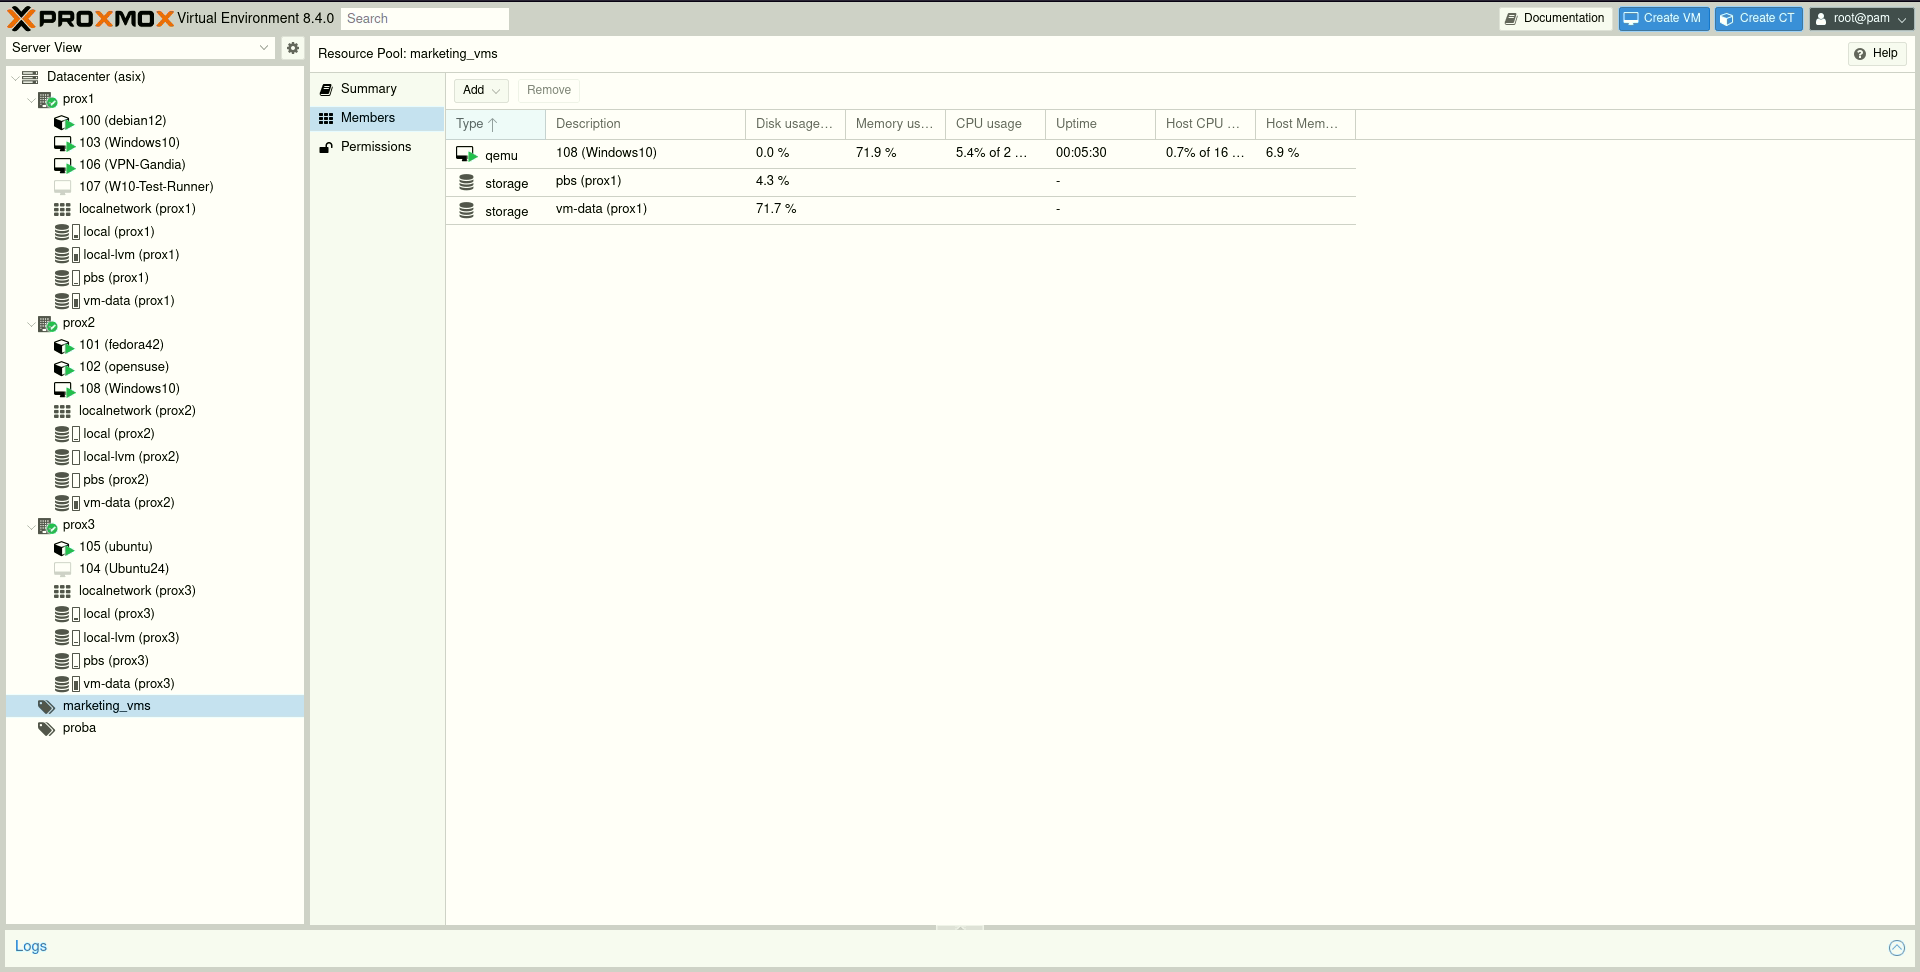
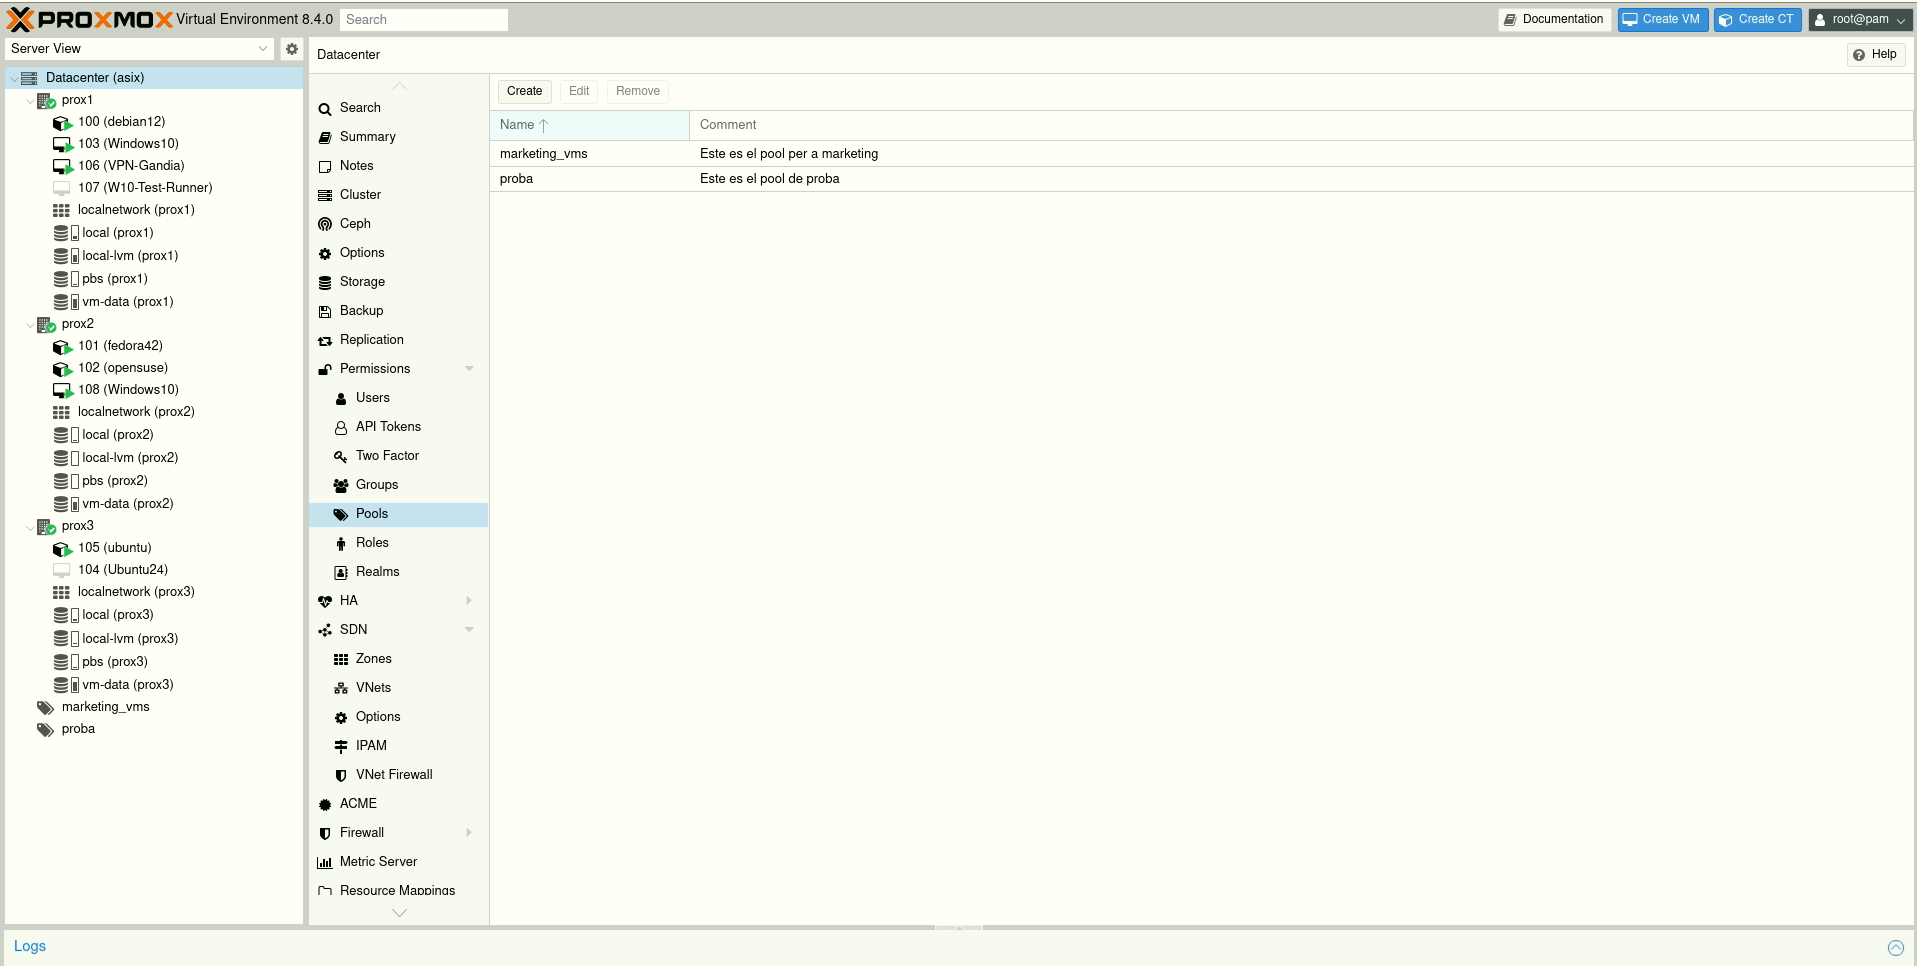
update files

diff --git a/documentació/configuració/proxmox/README.md b/documentació/configuració/proxmox/README.md
@@ -392,9 +392,6 @@ Ceph replica les dades entre OSDs segons la configuració de rèpliques (per def
 ![Restauració](../../../img/image-82.png)
 
 ---
-Perfecte! A continuació et redacte el punt **4.5 Gestió i monitoratge de Ceph**, amb to tècnic, formal i en valencià, adaptat per al teu projecte de forma clara i estructurada:
-
----
 
 ### 📈 4.5 Gestió i Monitoratge de **Ceph**
 
@@ -541,11 +538,11 @@ Per assegurar el correcte funcionament de la configuració HA, és recomanable f
 3. Observa com la VM és **migrada automàticament** a un altre node disponible
 4. Verifica que el servei continua operatiu sense intervenció manual
 
-![alt text](../../../img/image-88.png)
+![alt text](../../../img/image-89.png)
 
 🔍 Es pot monitorar aquest procés des de `Datacenter → HA → Status`.
 
-![alt text](../../../img/image-89.png)
+![alt text](../../../img/image-90.png)
 
 Per descomptat! Ací tens el fragment redactat de manera formal i clara, ideal per afegir com a continuació dins del punt 5.4 o com un subapartat pràctic de **recuperació post-fallada**:
 
@@ -607,7 +604,7 @@ Un cop el node original torna a estar **en línia i estable**, és **recomanable
 
 Amb aquest procés, la màquina recupera la seua ubicació inicial, mantenint-se dins del grup HA i **preparada per a futures gestions automàtiques** de tolerància a fallades.
 
-![alt text](../../../img/image-90.png)
+![alt text](../../../img/image-91.png)
 
 ---
 
@@ -637,10 +634,9 @@ En entorns virtualitzats compartits, com un clúster de **Proxmox VE**, és fona
    * `VM.Console`
    * `Sys.Console`
 
-![alt text](../../../img/image-91.png)
+![alt text](../../../img/image-92.png)
 
-
-![alt text](../../../img/image-98.png)
+![alt text](../../../img/image-93.png)
 
 #### ➕ Assignació del rol:
 
@@ -653,13 +649,13 @@ En entorns virtualitzats compartits, com un clúster de **Proxmox VE**, és fona
 
 Això permet donar accés restringit a determinats recursos dins del clúster.
 
-![alt text](../../../img/image-92.png)
-
 ![alt text](../../../img/image-94.png)
+
+![alt text](../../../img/image-95.png)
 
 En este cas he creat un usuari de prova per a assignar el rol creat.
 
-![alt text](../../../img/image-93.png)
+![alt text](../../../img/image-96.png)
 
 ---
 
@@ -669,25 +665,25 @@ Els **pools** són agrupacions lògiques de recursos (VMs, CTs, discos, etc.) qu
 
 #### 🛠 Creació d’un pool:
 
-1. Ves a `Datacenter → Pools`
+1. Ves a `Datacenter → Permissions → Pools`
 2. Fes clic a **Create**
 
-![alt text](../../../img/image-95.png)
+![alt text](../../../img/image-97.png)
 
 1. Emplena:
 
    * **Nom del pool:** ex. `departament_it`, `desenvolupament`
    * **Descripció** (opcional)
 
-![alt text](../../../img/image-96.png)
+![alt text](../../../img/image-98.png)
 
-4. Afegeix les VMs o CTs desitjades al pool
+1. Afegeix les VMs o CTs desitjades al pool
 
-En este cas anem a fer que el usuari proba puga vore la vm 103(Windows10)
+En este cas anem a fer que el usuari proba puga vore la vm 108(Windows10)
 
 ![alt text](../../../img/image-99.png)
 
-Assignacio del pool al usuari proba.
+Assignacio del pool al usuari proba amb el rol  que hem creat.
 
 ![alt text](../../../img/image-100.png)
 
@@ -713,6 +709,10 @@ Amb els **rols** i **pools**, es pot habilitar un entorn **multiusuari segur**, 
 ![alt text](../../../img/image-101.png)
 
 ![alt text](../../../img/image-102.png)
+
+![alt text](../../../img/image-103.png)
+
+![alt text](../../../img/image-104.png)
 
 ---
 
